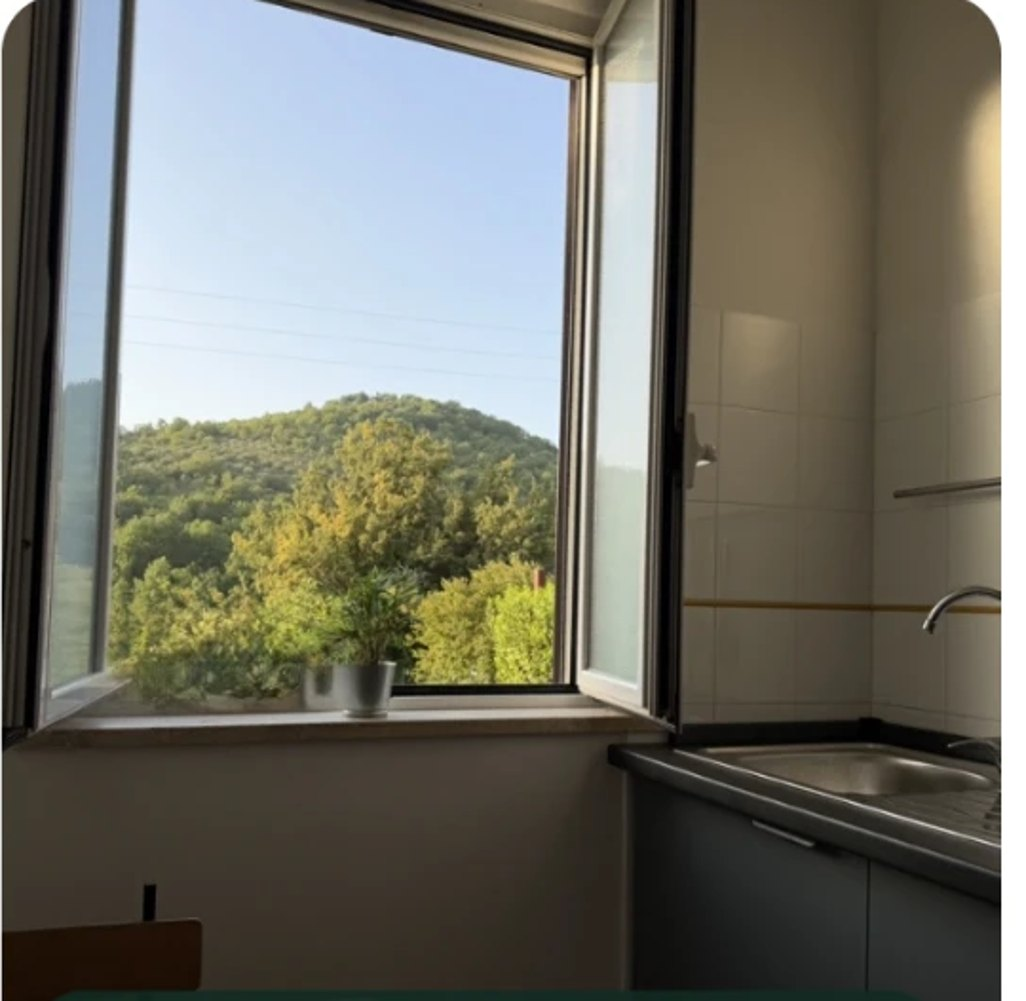
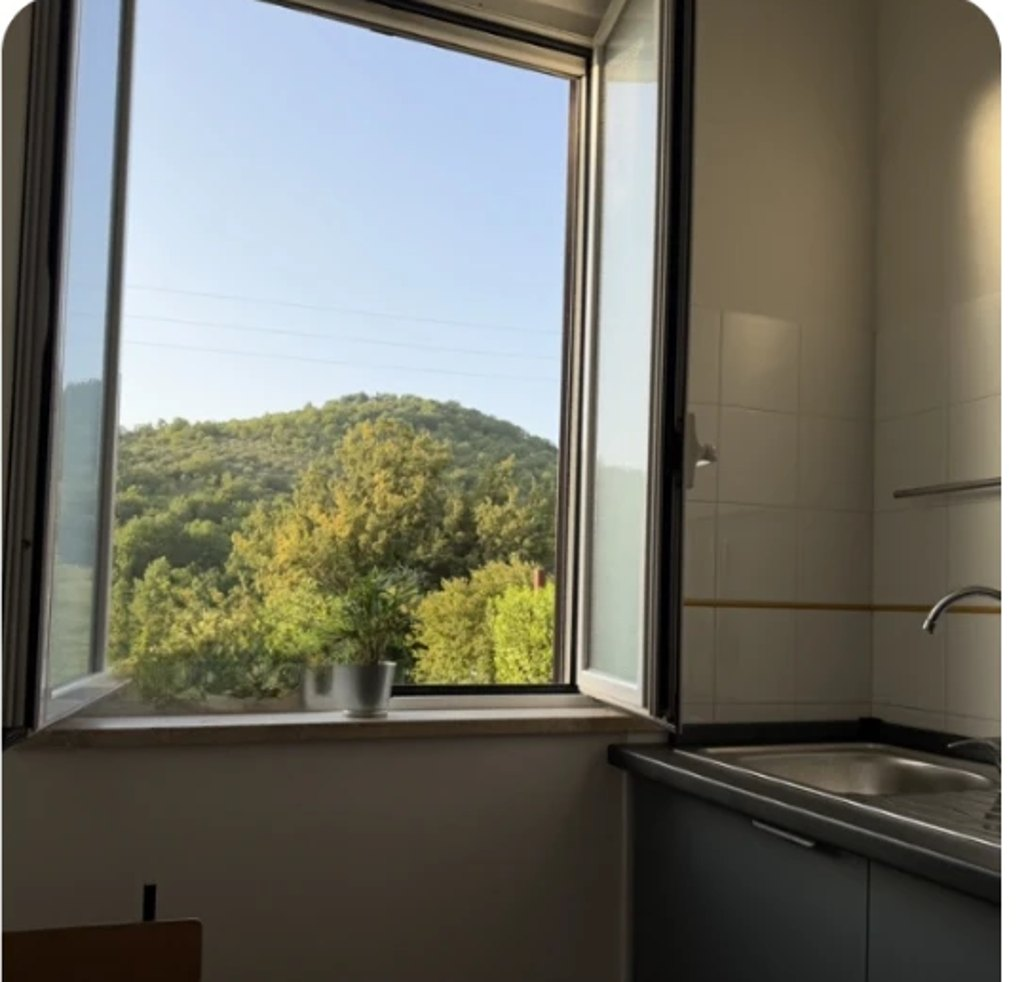
La Casa di Campagna: intro a sipario, hero leggibile, icone e animazioni
- Intro premium: emblema che si disegna, nome lettera per lettera con
  riflesso dorato, apertura a sipario sulla foto
- Hero: località in chip leggibile con icona, sfumatura più forte a sinistra
- Territorio: icone che si disegnano allo scroll
- Animazioni interne: zoom lento sull'hero, entrata a cascata dopo l'intro,
  foto che si svelano, linea dorata sotto i titoli, barra di avanzamento,
  riflesso sui pulsanti, pop sul totale del preventivo
- Ritagli foto ripuliti dai residui delle didascalie

Claude-Session: https://claude.ai/code/session_01GKeRdDzPppMPNVWNFPmxtW

diff --git a/sito-casa-campagna/css/style.css b/sito-casa-campagna/css/style.css
@@ -46,26 +46,44 @@ h1,h2,h3{font-family:var(--ff-d);font-weight:600;line-height:1.02;letter-spacing
 .btn-wa{background:var(--wa);color:#fff}
 .btn-wa:hover{transform:translateY(-2px)}
 
-/* ── INTRO PREMIUM ── */
-#intro{position:fixed;inset:0;z-index:2000;display:grid;place-items:center;overflow:hidden;background:var(--forest-2);transition:opacity 1s var(--ease), visibility 1s, transform 1.1s var(--ease)}
-#intro .intro-bg{position:absolute;inset:0;background-size:cover;background-position:center;transform:scale(1.08);filter:brightness(.5) saturate(.9)}
-#intro .intro-veil{position:absolute;inset:0;background:radial-gradient(ellipse at center, rgba(28,36,24,.35), rgba(20,27,18,.85))}
-#intro.hide{opacity:0;visibility:hidden;transform:scale(1.04)}
-.intro-logo{position:relative;text-align:center;color:var(--paper);padding:24px}
-.intro-logo .il-top{font-size:.72rem;letter-spacing:.34em;text-transform:uppercase;color:var(--stone);opacity:0;animation:fadeUp .9s var(--ease) .2s forwards}
-.intro-logo .il-name{position:relative;font-family:var(--ff-d);font-weight:600;font-size:clamp(2.6rem,8vw,5.6rem);line-height:1.02;margin:16px 0;color:var(--paper);
-  background:linear-gradient(100deg, var(--paper) 0 38%, #fff6df 46%, var(--brass) 52%, var(--paper) 62% 100%);
-  background-size:280% 100%;background-position:120% 0;-webkit-background-clip:text;background-clip:text;-webkit-text-fill-color:transparent;
-  opacity:0;animation:fadeUp 1s var(--ease) .45s forwards, shimmer 2.2s var(--ease) 1s forwards}
-.intro-logo .il-line{height:1px;width:0;background:linear-gradient(90deg,transparent,var(--brass),transparent);margin:6px auto 16px;animation:lineGrow 1.1s var(--ease) .8s forwards}
-.intro-logo .il-sub{font-family:var(--ff-d);font-style:italic;font-size:clamp(1.1rem,2.4vw,1.5rem);color:var(--stone);opacity:0;animation:fadeUp .9s var(--ease) 1.05s forwards}
+/* ── INTRO PREMIUM (sipario) ── */
+#intro{position:fixed;inset:0;z-index:2000;pointer-events:auto}
+#intro .ip{position:absolute;left:0;right:0;height:50vh;overflow:hidden;transition:transform 1.25s cubic-bezier(.77,0,.18,1)}
+#intro .ip-top{top:0}
+#intro .ip-bot{bottom:0}
+#intro .ip-img{position:absolute;left:0;right:0;height:100vh;background-size:cover;background-position:center;filter:brightness(.32) saturate(.85) blur(2px);transform:scale(1.08)}
+#intro .ip-top .ip-img{top:0}
+#intro .ip-bot .ip-img{bottom:0}
+#intro .ip::after{content:"";position:absolute;inset:0;background:radial-gradient(ellipse at 50% 100%, rgba(29,39,28,.35), rgba(16,22,15,.9))}
+#intro .ip-bot::after{background:radial-gradient(ellipse at 50% 0%, rgba(29,39,28,.35), rgba(16,22,15,.9))}
+#intro .ip-top::before{content:"";position:absolute;left:0;right:0;bottom:0;height:1px;z-index:2;background:linear-gradient(90deg,transparent,var(--brass),transparent);opacity:0;transition:opacity .4s}
+#intro.open .ip-top::before{opacity:1}
+#intro.open .ip-top{transform:translateY(-100%)}
+#intro.open .ip-bot{transform:translateY(100%)}
+#intro.open .intro-logo{opacity:0;transform:scale(1.08);filter:blur(4px)}
+#intro.open .intro-skip{opacity:0}
+.intro-logo{position:absolute;inset:0;z-index:3;display:flex;flex-direction:column;align-items:center;justify-content:center;text-align:center;color:var(--paper);padding:24px;transition:opacity .7s var(--ease), transform 1s var(--ease), filter .7s}
+.il-emblem{width:92px;height:92px;margin-bottom:22px;overflow:visible}
+.il-emblem *{fill:none;stroke:var(--brass);stroke-width:1.4;stroke-linecap:round;stroke-linejoin:round}
+.il-emblem .em-ring{stroke-dasharray:340;stroke-dashoffset:340;animation:draw 1.4s var(--ease) .15s forwards}
+.il-emblem .em-hill{stroke-dasharray:120;stroke-dashoffset:120;animation:draw 1s var(--ease) .7s forwards}
+.il-emblem .em-house{stroke-dasharray:90;stroke-dashoffset:90;animation:draw .9s var(--ease) .95s forwards}
+.il-emblem .em-leaf{fill:var(--brass);stroke:none;opacity:0;transform-origin:68px 32px;transform:scale(.3) rotate(-30deg);animation:leaf .7s var(--ease) 1.5s forwards}
+.intro-logo .il-top{font-size:.7rem;letter-spacing:.38em;text-transform:uppercase;color:var(--stone);opacity:0;animation:fadeUp .9s var(--ease) 1s forwards}
+.intro-logo .il-name{position:relative;font-family:var(--ff-d);font-weight:500;font-size:clamp(2.6rem,8.4vw,6rem);line-height:1.04;margin:14px 0 6px;color:#f6efdf;text-shadow:0 0 40px rgba(176,141,79,.25);perspective:600px;overflow:hidden;padding:0 .12em .08em}
+.intro-logo .il-name .ch{display:inline-block;opacity:0;transform:translateY(.7em) rotateX(-70deg);filter:blur(8px);animation:chIn .9s var(--ease) forwards;animation-delay:calc(1.15s + var(--i) * 45ms)}
+.intro-logo .il-name::after{content:"";position:absolute;top:-20%;bottom:-20%;left:-40%;width:40%;background:linear-gradient(100deg,transparent,rgba(255,236,190,.55),transparent);transform:skewX(-18deg) translateX(-100%);mix-blend-mode:soft-light;animation:glint 1.5s var(--ease) 2.35s forwards;pointer-events:none}
+.intro-logo .il-line{height:1px;width:0;background:linear-gradient(90deg,transparent,var(--brass),transparent);margin:14px auto 16px;animation:lineGrow 1.1s var(--ease) 2.05s forwards}
+.intro-logo .il-sub{font-family:var(--ff-d);font-style:italic;font-size:clamp(1.15rem,2.4vw,1.55rem);color:var(--stone);opacity:0;animation:fadeUp .9s var(--ease) 2.3s forwards}
+@keyframes draw{to{stroke-dashoffset:0}}
+@keyframes leaf{to{opacity:1;transform:none}}
+@keyframes chIn{to{opacity:1;transform:none;filter:blur(0)}}
+@keyframes glint{to{transform:skewX(-18deg) translateX(420%)}}
 @keyframes fadeUp{from{opacity:0;transform:translateY(16px)}to{opacity:1;transform:none}}
-@keyframes lineGrow{to{width:min(260px,70vw)}}
-@keyframes shimmer{to{background-position:-120% 0}}
-.intro-skip{position:absolute;bottom:30px;left:50%;transform:translateX(-50%);background:none;border:0;color:rgba(243,237,225,.65);font-family:var(--ff);font-size:.72rem;letter-spacing:.16em;text-transform:uppercase;cursor:pointer;display:inline-flex;align-items:center;gap:8px}
-.intro-skip::after{content:"";width:1px;height:22px;background:rgba(243,237,225,.4);position:absolute;bottom:-26px;left:50%}
-.intro-skip:hover{color:var(--paper)}
-@media(prefers-reduced-motion:reduce){.intro-logo *{animation:none!important;opacity:1!important;transform:none!important;width:auto;-webkit-text-fill-color:var(--paper)}}
+@keyframes lineGrow{to{width:min(280px,70vw)}}
+.intro-skip{position:absolute;z-index:4;bottom:34px;left:50%;transform:translateX(-50%);background:none;border:1px solid rgba(243,237,225,.25);border-radius:99px;padding:9px 20px;color:rgba(243,237,225,.75);font-family:var(--ff);font-size:.68rem;letter-spacing:.2em;text-transform:uppercase;cursor:pointer;transition:opacity .4s, border-color .3s, color .3s}
+.intro-skip:hover{color:var(--paper);border-color:var(--brass)}
+@media(prefers-reduced-motion:reduce){#intro{display:none}}
 
 /* ── HEADER ── */
 .header{position:fixed;top:0;left:0;right:0;z-index:100;padding:10px 0;transition:background .4s, transform .4s var(--ease), padding .3s;color:var(--paper)}
@@ -95,9 +113,11 @@ h1,h2,h3{font-family:var(--ff-d);font-weight:600;line-height:1.02;letter-spacing
 /* ── HERO fotografico ── */
 .hero{position:relative;min-height:100vh;display:flex;align-items:flex-end;color:var(--paper);overflow:hidden}
 .hero-bg{position:absolute;inset:0;background-size:cover;background-position:center;transform:scale(1.03)}
-.hero::after{content:"";position:absolute;inset:0;background:linear-gradient(180deg, rgba(20,27,18,.5) 0%, rgba(20,27,18,.15) 35%, rgba(20,27,18,.75) 100%)}
+.hero::after{content:"";position:absolute;inset:0;background:linear-gradient(90deg, rgba(16,22,15,.78) 0%, rgba(16,22,15,.5) 38%, rgba(16,22,15,.12) 68%, rgba(16,22,15,0) 100%), linear-gradient(180deg, rgba(16,22,15,.55) 0%, rgba(16,22,15,0) 28%, rgba(16,22,15,0) 62%, rgba(16,22,15,.7) 100%)}
 .hero-in{position:relative;z-index:2;width:100%;padding:0 0 70px}
-.hero .lbl{color:var(--stone)}
+.hero .lbl{display:inline-flex;align-items:center;gap:10px;color:#f6efdf;background:rgba(16,22,15,.55);backdrop-filter:blur(8px);-webkit-backdrop-filter:blur(8px);border:1px solid rgba(243,237,225,.22);border-radius:99px;padding:9px 16px 9px 12px;letter-spacing:.22em}
+.hero .lbl svg{width:15px;height:15px;stroke:var(--brass);fill:none;stroke-width:1.8;flex:none}
+.hero h1,.hero-sub{text-shadow:0 2px 24px rgba(0,0,0,.35)}
 .hero h1{font-size:clamp(3.2rem,9vw,7rem);color:var(--paper);line-height:.95;margin:16px 0 18px;font-weight:500}
 .hero h1 em{font-style:italic;color:#f0e6cf}
 .hero-sub{max-width:540px;font-size:1.1rem;color:rgba(243,237,225,.9);margin-bottom:30px}
@@ -189,7 +209,11 @@ h1,h2,h3{font-family:var(--ff-d);font-weight:600;line-height:1.02;letter-spacing
 .terr{display:grid;grid-template-columns:repeat(3,1fr);gap:1px;background:var(--line)}
 .tcard{background:var(--paper);padding:40px 34px;transition:background .3s}
 .tcard:hover{background:var(--cream)}
-.tcard .tn{font-family:var(--ff-d);font-size:1.4rem;color:var(--brass);margin-bottom:16px}
+.tcard .thead{display:flex;align-items:center;justify-content:space-between;margin-bottom:26px}
+.tcard .ticon{width:58px;height:58px;border-radius:50%;border:1px solid var(--brass);display:grid;place-items:center;color:var(--brass);transition:background .35s, color .35s, transform .35s}
+.tcard .ticon svg{width:26px;height:26px;fill:none;stroke:currentColor;stroke-width:1.5;stroke-linecap:round;stroke-linejoin:round}
+.tcard:hover .ticon{background:var(--brass);color:#fff;transform:rotate(-8deg)}
+.tcard .tn{font-family:var(--ff-d);font-size:1.4rem;color:var(--brass)}
 .tcard h3{font-size:1.6rem;font-weight:500;margin-bottom:12px}
 .tcard p{color:var(--muted);font-size:.98rem}
 @media(max-width:860px){.terr{grid-template-columns:1fr}}
@@ -333,3 +357,59 @@ h1,h2,h3{font-family:var(--ff-d);font-weight:600;line-height:1.02;letter-spacing
 .js .reveal-group.in>*:nth-child(2){transition-delay:.1s}
 .js .reveal-group.in>*:nth-child(3){transition-delay:.2s}
 @media(prefers-reduced-motion:reduce){html{scroll-behavior:auto}.js .rev,.js .reveal-group>*{opacity:1!important;transform:none!important}}
+
+/* ═══ ANIMAZIONI INTERNE ═══ */
+/* barra di avanzamento lettura */
+#progress{position:fixed;top:0;left:0;right:0;height:2px;z-index:150;background:linear-gradient(90deg,var(--brass),#e2c88a);transform-origin:0 50%;transform:scaleX(0);pointer-events:none}
+/* hero: zoom lento + entrata a cascata dopo l'intro */
+.hero-bg{animation:kenburns 24s ease-in-out infinite alternate}
+@keyframes kenburns{from{transform:scale(1.03) translate(0,0)}to{transform:scale(1.14) translate(-1.5%,-1%)}}
+.js .hero-in>*{opacity:0;transform:translateY(34px)}
+.ready .hero-in>*{animation:heroIn 1.1s var(--ease) forwards}
+.ready .hero-in>*:nth-child(2){animation-delay:.12s}
+.ready .hero-in>*:nth-child(3){animation-delay:.28s}
+.ready .hero-in>*:nth-child(4){animation-delay:.42s}
+@keyframes heroIn{to{opacity:1;transform:none}}
+.scrollcue{animation:cue 2.2s ease-in-out infinite}
+@keyframes cue{0%{transform:translateX(-50%) scaleY(0);transform-origin:top}50%{transform:translateX(-50%) scaleY(1);transform-origin:top}51%{transform-origin:bottom}100%{transform:translateX(-50%) scaleY(0);transform-origin:bottom}}
+/* foto che si svelano */
+.js .imgrev img{clip-path:inset(0 0 100% 0);transform:scale(1.18);transition:clip-path 1.4s cubic-bezier(.77,0,.18,1), transform 1.8s var(--ease)}
+.js .imgrev.in img{clip-path:inset(0 0 0 0);transform:scale(1)}
+.js .gal .imgrev:nth-child(2) img{transition-delay:.15s}
+.js .gal .imgrev:nth-child(3) img{transition-delay:.3s}
+.js .imgrev .cap{opacity:0;transition:opacity .6s ease 1.1s}
+.js .imgrev.in .cap{opacity:1}
+/* linea dorata sotto i titoli di sezione */
+.head h2::after{content:"";display:block;width:0;height:1px;background:var(--brass);margin:24px auto 0;transition:width 1.2s var(--ease) .35s}
+.head.left h2::after{margin-left:0}
+.head.in h2::after{width:72px}
+/* icone che si disegnano */
+.js .ticon svg *{stroke-dasharray:90;stroke-dashoffset:90;transition:stroke-dashoffset 1.8s var(--ease) .4s}
+.reveal-group.in .ticon svg *{stroke-dashoffset:0}
+/* kit trekking a cascata */
+.js .kitlist li{opacity:0;transform:translateX(-14px);transition:opacity .6s var(--ease), transform .6s var(--ease)}
+.rev.in .kitlist li{opacity:1;transform:none}
+.rev.in .kitlist li:nth-child(2){transition-delay:.07s}.rev.in .kitlist li:nth-child(3){transition-delay:.14s}
+.rev.in .kitlist li:nth-child(4){transition-delay:.21s}.rev.in .kitlist li:nth-child(5){transition-delay:.28s}
+.rev.in .kitlist li:nth-child(6){transition-delay:.35s}.rev.in .kitlist li:nth-child(7){transition-delay:.42s}
+.rev.in .kitlist li:nth-child(8){transition-delay:.49s}
+/* infobar a cascata */
+.js .reveal-group.in>*:nth-child(4){transition-delay:.3s}
+/* riflesso sui pulsanti */
+.btn-brass,.btn-forest{position:relative;overflow:hidden}
+.btn-brass::after,.btn-forest::after{content:"";position:absolute;top:0;bottom:0;left:-60%;width:40%;background:linear-gradient(100deg,transparent,rgba(255,255,255,.35),transparent);transform:skewX(-20deg);transition:left .8s var(--ease)}
+.btn-brass:hover::after,.btn-forest:hover::after{left:130%}
+/* pop del totale preventivo */
+.qbig.bump{animation:bump .45s var(--ease)}
+@keyframes bump{0%{transform:scale(1)}40%{transform:scale(1.1);color:#f0dca8}100%{transform:scale(1)}}
+.qtot .qbig{display:inline-block}
+/* card territorio: sollevamento */
+.tcard{transition:background .3s, transform .4s var(--ease)}
+.tcard:hover{transform:translateY(-6px)}
+@media(prefers-reduced-motion:reduce){
+  .hero-bg,.scrollcue,.btn-price{animation:none}
+  .js .hero-in>*,.js .kitlist li{opacity:1;transform:none;animation:none}
+  .js .imgrev img{clip-path:none;transform:none}.js .imgrev .cap{opacity:1}
+  .js .ticon svg *{stroke-dashoffset:0}
+  #progress{display:none}
+}

diff --git a/sito-casa-campagna/index.html b/sito-casa-campagna/index.html
@@ -34,13 +34,20 @@
   </script>
 </head>
 <body class="intro-lock">
-  <!-- INTRO PREMIUM -->
+  <div id="progress" aria-hidden="true"></div>
+  <!-- INTRO PREMIUM (sipario) -->
   <div id="intro" role="presentation">
-    <div class="intro-bg" style="background-image:url('assets/vista.jpg')"></div>
-    <div class="intro-veil"></div>
+    <div class="ip ip-top"><div class="ip-img" style="background-image:url('assets/vista.jpg')"></div></div>
+    <div class="ip ip-bot"><div class="ip-img" style="background-image:url('assets/vista.jpg')"></div></div>
     <div class="intro-logo">
+      <svg class="il-emblem" viewBox="0 0 120 120" aria-hidden="true">
+        <circle class="em-ring" cx="60" cy="60" r="54" />
+        <path class="em-hill" d="M16 84 Q34 64 50 74 T86 68 Q96 66 104 74" />
+        <path class="em-house" d="M46 76 V58 L60 46 L74 58 V76" />
+        <path class="em-leaf" d="M62 36 C66 26 76 24 82 26 C80 34 72 40 62 36 Z" />
+      </svg>
       <div class="il-top">Ponticelli di Scandriglia · Sabina</div>
-      <div class="il-name">La Casa di Campagna</div>
+      <div class="il-name" aria-label="La Casa di Campagna">La Casa di Campagna</div>
       <div class="il-line"></div>
       <div class="il-sub">La natura, fuori casa</div>
     </div>
@@ -68,7 +75,7 @@
     <section class="hero">
       <div class="hero-bg" style="background-image:url('assets/hero.jpg')"></div>
       <div class="wrap hero-in">
-        <span class="lbl">La Casa di Campagna · Sabina</span>
+        <span class="lbl"><svg viewBox="0 0 24 24" aria-hidden="true"><path d="M12 21s-7-5.6-7-11a7 7 0 0 1 14 0c0 5.4-7 11-7 11z"/><circle cx="12" cy="10" r="2.5"/></svg>Ponticelli di Scandriglia · Sabina</span>
         <h1>La natura,<br /><em>fuori casa.</em></h1>
         <p class="hero-sub">Una casa tutta per te in Sabina, tra uliveti e boschi dei Monti Lucretili, a circa 48 km da Roma. Il punto di partenza perfetto per camminare nella natura.</p>
         <div class="hero-cta">
@@ -81,7 +88,7 @@
 
     <!-- INFO BAR -->
     <div class="infobar">
-      <div class="wrap infobar-in">
+      <div class="wrap infobar-in reveal-group">
         <div><div class="n">Intera casa</div><div class="t">tutta per te</div></div>
         <div><div class="n">Fino a 3</div><div class="t">ospiti</div></div>
         <div><div class="n">2 notti</div><div class="t">soggiorno minimo</div></div>
@@ -93,7 +100,7 @@
     <section class="sec" id="la-casa">
       <div class="wrap">
         <div class="editorial">
-          <div class="ed-media rev">
+          <div class="ed-media rev imgrev">
             <img src="assets/salotto.jpg" alt="Salotto con camino e divano letto" />
             <span class="cap">Salotto con camino</span>
           </div>
@@ -116,9 +123,9 @@
           <h2>Gli ambienti</h2>
         </div>
         <div class="gal rev">
-          <figure class="wide"><img src="assets/salotto.jpg" alt="Salotto con camino e divano letto" loading="lazy" /></figure>
-          <figure><img src="assets/vista.jpg" alt="Vista sui monti dalla finestra" loading="lazy" /></figure>
-          <figure><img src="assets/cucina.jpg" alt="Cucina attrezzata" loading="lazy" /></figure>
+          <figure class="wide imgrev"><img src="assets/salotto.jpg" alt="Salotto con camino e divano letto" loading="lazy" /></figure>
+          <figure class="imgrev"><img src="assets/vista.jpg" alt="Vista sui monti dalla finestra" loading="lazy" /></figure>
+          <figure class="imgrev"><img src="assets/cucina.jpg" alt="Cucina attrezzata" loading="lazy" /></figure>
         </div>
       </div>
     </section>
@@ -175,17 +182,17 @@
         </div>
         <div class="terr reveal-group">
           <article class="tcard">
-            <div class="tn">01</div>
+            <div class="thead"><span class="ticon"><svg viewBox="0 0 24 24" aria-hidden="true"><path d="M2 20 9 8l4 6 3-4 6 10z"/><circle cx="17" cy="5" r="2"/></svg></span><span class="tn">01</span></div>
             <h3>Passeggiate e percorsi</h3>
             <p>Sentieri, boschi e paesaggi dei Monti Lucretili per camminare con calma e scoprire il territorio.</p>
           </article>
           <article class="tcard">
-            <div class="tn">02</div>
+            <div class="thead"><span class="ticon"><svg viewBox="0 0 24 24" aria-hidden="true"><path d="M2 10c3-3 6-3 10 1 4-4 7-4 10-1"/><path d="M12 11v3"/><path d="M6 16c2-1 4-1 6 1 2-2 4-2 6-1"/></svg></span><span class="tn">02</span></div>
             <h3>Il regno dell'aquila reale</h3>
             <p>Un ambiente protetto, ricco di biodiversità, dove alzando lo sguardo puoi ammirare l'aquila reale.</p>
           </article>
           <article class="tcard">
-            <div class="tn">03</div>
+            <div class="thead"><span class="ticon"><svg viewBox="0 0 24 24" aria-hidden="true"><path d="M4 20C8 14 12 10 20 4"/><path d="M9 14c-2.5-.5-4.5.5-5.5 2.5 2.5.5 4.5-.5 5.5-2.5z"/><path d="M13 10c0-2.5 1.5-4.5 4-5 0 2.5-1.5 4.5-4 5z"/><ellipse cx="16" cy="13" rx="1.8" ry="2.4"/></svg></span><span class="tn">03</span></div>
             <h3>La cultura dell'olio</h3>
             <p>Terra di olio extravergine biologico certificato: un'eccellenza locale da conoscere durante il soggiorno.</p>
           </article>

diff --git a/sito-casa-campagna/js/main.js b/sito-casa-campagna/js/main.js
@@ -7,24 +7,35 @@
   var reduced = window.matchMedia('(prefers-reduced-motion: reduce)').matches;
   var WA = '393396904793';
 
-  /* ── Intro premium (una volta per sessione) ── */
+  /* ── Intro premium a sipario (una volta per sessione) ── */
   (function () {
     var intro = document.getElementById('intro'); if (!intro) return;
     var seen = false;
     try { seen = sessionStorage.getItem('lcc-intro') === '1'; } catch (e) {}
-    function close() {
-      intro.classList.add('hide');
-      document.body.classList.remove('intro-lock');
-      try { sessionStorage.setItem('lcc-intro', '1'); } catch (e) {}
-      setTimeout(function () { if (intro.parentNode) intro.parentNode.removeChild(intro); }, 1100);
-    }
-    if (seen || reduced) { document.body.classList.remove('intro-lock'); intro.classList.add('hide'); setTimeout(function () { if (intro.parentNode) intro.parentNode.removeChild(intro); }, 60); return; }
+    var remove = function () { if (intro.parentNode) intro.parentNode.removeChild(intro); };
+    if (seen || reduced) { document.body.classList.remove('intro-lock'); document.body.classList.add('ready'); remove(); return; }
+    // nome lettera per lettera
+    var nm = intro.querySelector('.il-name'), txt = nm.textContent, i = 0;
+    nm.innerHTML = txt.split('').map(function (c) {
+      if (c === ' ') return ' ';
+      return '<span class="ch" aria-hidden="true" style="--i:' + (i++) + '">' + c + '</span>';
+    }).join('');
     document.body.classList.add('intro-lock');
-    var timer = setTimeout(close, 3000);
-    var skip = function () { clearTimeout(timer); close(); };
+    var done = false;
+    function open() {
+      if (done) return; done = true;
+      intro.classList.add('open');
+      document.body.classList.remove('intro-lock');
+      setTimeout(function () { document.body.classList.add('ready'); }, 350);
+      try { sessionStorage.setItem('lcc-intro', '1'); } catch (e) {}
+      setTimeout(remove, 1400);
+    }
+    var timer = setTimeout(open, 3700);
+    var skip = function () { clearTimeout(timer); open(); };
     intro.addEventListener('click', skip);
     window.addEventListener('wheel', skip, { once: true, passive: true });
     window.addEventListener('touchmove', skip, { once: true, passive: true });
+    window.addEventListener('keydown', skip, { once: true });
   })();
 
   /* ── Menu mobile ── */
@@ -52,10 +63,26 @@
     lastY = y;
   }, { passive: true });
 
+  /* ── Barra di avanzamento + hero che sfuma allo scroll ── */
+  (function () {
+    var bar = document.getElementById('progress'), heroIn = document.querySelector('.hero-in');
+    var ticking = false;
+    function upd() {
+      var y = window.scrollY, h = document.documentElement.scrollHeight - window.innerHeight;
+      if (bar) bar.style.transform = 'scaleX(' + (h > 0 ? y / h : 0) + ')';
+      if (heroIn && !reduced && document.body.classList.contains('ready')) {
+        var k = Math.min(1, y / (window.innerHeight * .7));
+        heroIn.style.opacity = 1 - k * .9; heroIn.style.transform = 'translateY(' + (y * .25) + 'px)';
+      }
+      ticking = false;
+    }
+    window.addEventListener('scroll', function () { if (!ticking) { requestAnimationFrame(upd); ticking = true; } }, { passive: true });
+  })();
+
   var yr = document.getElementById('year'); if (yr) yr.textContent = new Date().getFullYear();
 
   /* ── Reveal ── */
-  var targets = all('.rev, .reveal-group');
+  var targets = all('.rev, .reveal-group, .imgrev');
   if ('IntersectionObserver' in window) {
     var io = new IntersectionObserver(function (es) {
       es.forEach(function (e) { if (e.isIntersecting) { e.target.classList.add('in'); io.unobserve(e.target); } });
@@ -119,6 +146,7 @@
       minus.disabled = nights <= MIN; minus.style.opacity = nights <= MIN ? .35 : 1;
       var tot = nights * RATE;
       big.innerHTML = money(tot) + ' <small>€</small>';
+      big.classList.remove('bump'); void big.offsetWidth; big.classList.add('bump');
       var msg = 'Buongiorno, vorrei verificare la disponibilità de La Casa di Campagna per ' + nights + ' notti';
       if (dt && dt.value) { var p = dt.value.split('-'); msg += ' con arrivo il ' + p[2] + '/' + p[1] + '/' + p[0]; }
       msg += ' (totale indicativo ' + money(tot) + ' €, intera casa fino a 3 ospiti).';
